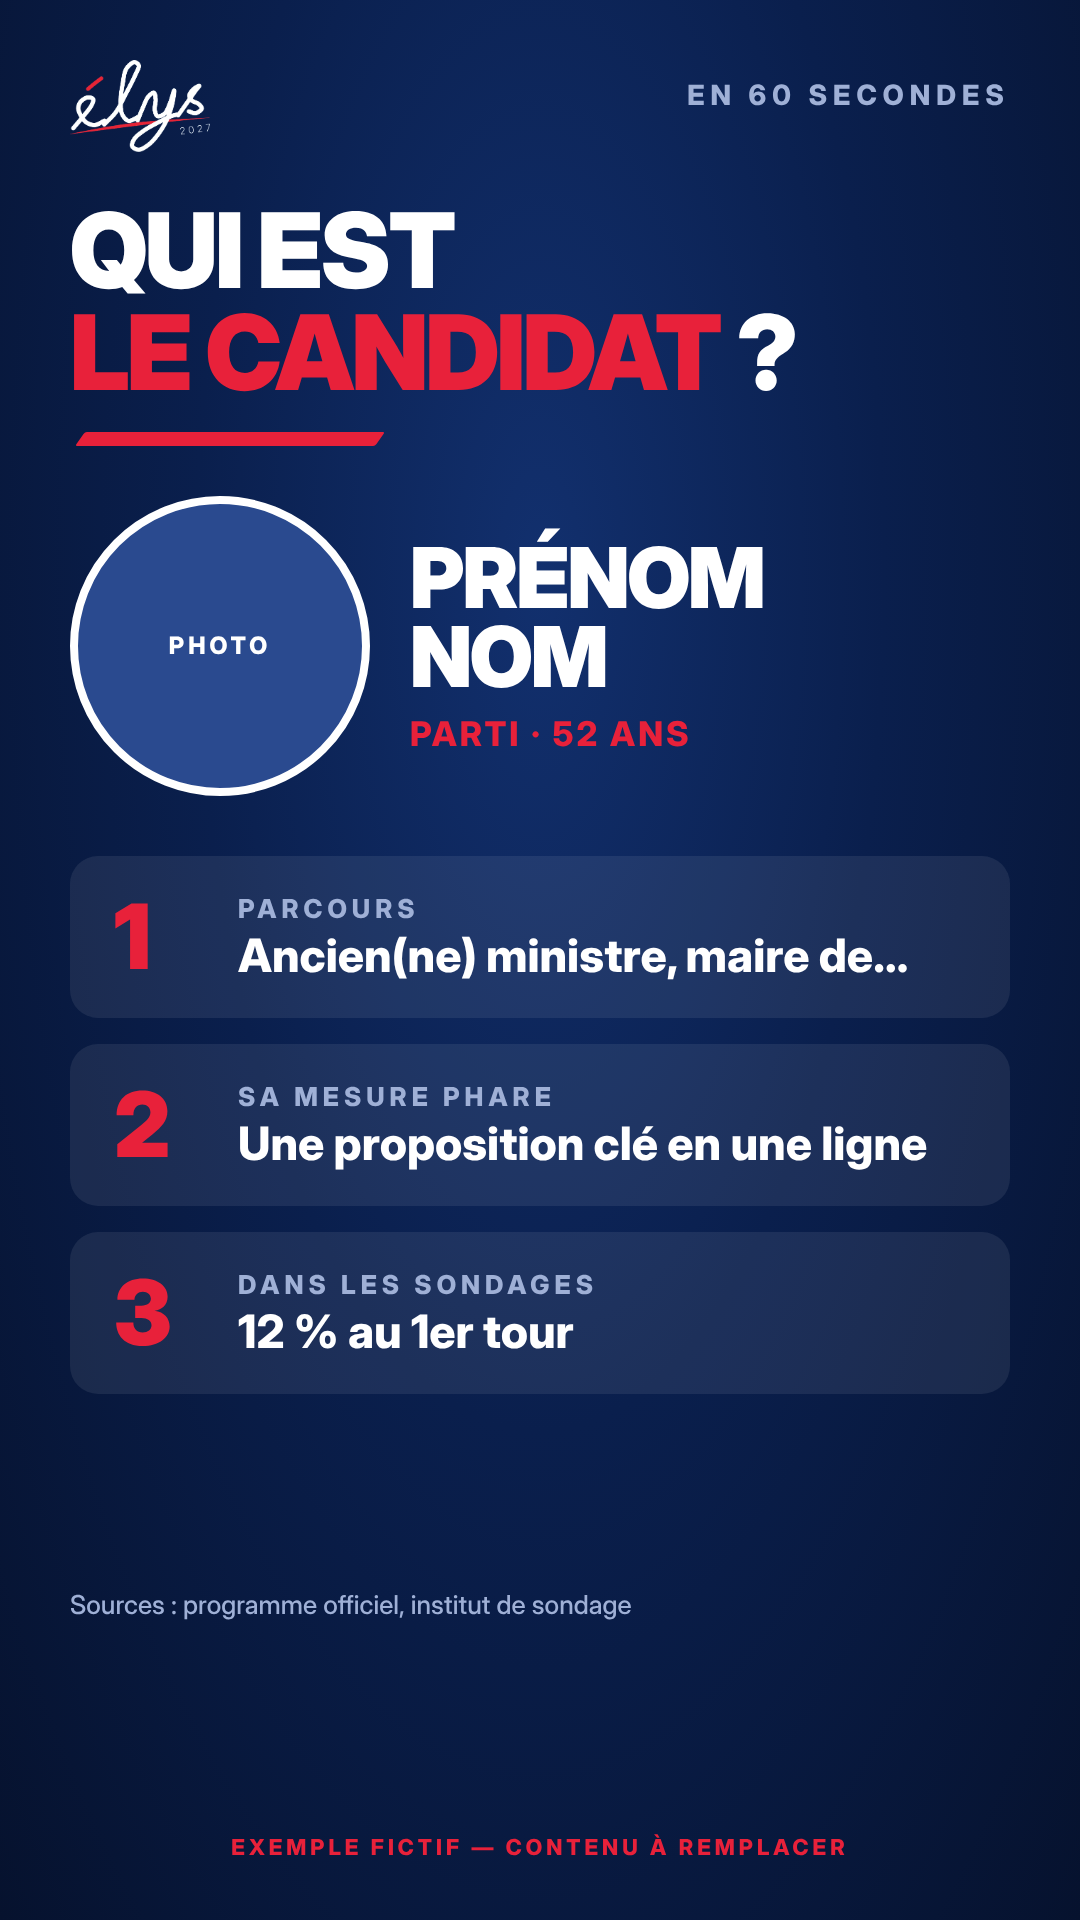
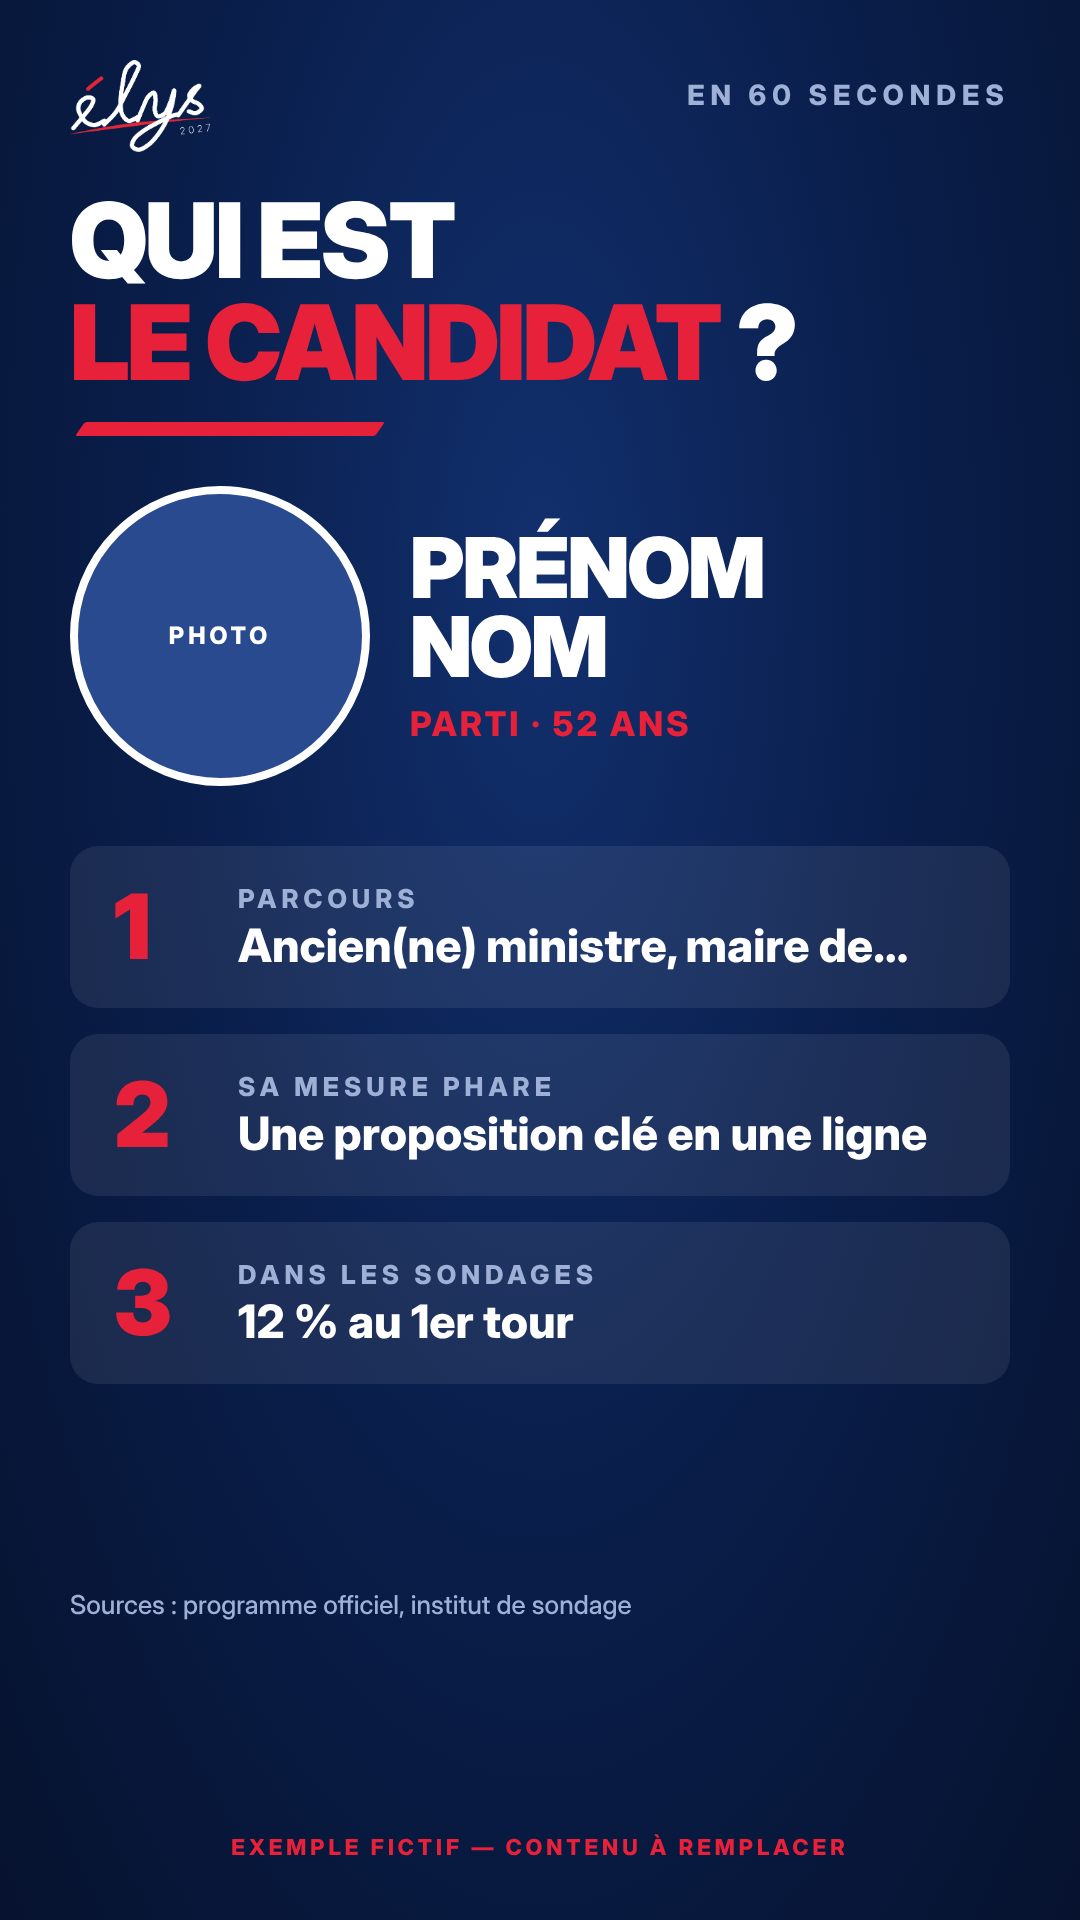
Met à jour la grille, les fiches candidats et les photos disponibles
Claude-Session: https://claude.ai/code/session_012qHyRtMWxFmLdszcpP5WFX

diff --git a/templates/candidat.html b/templates/candidat.html
@@ -1,7 +1,7 @@
 <!doctype html><html lang="fr"><head><meta charset="utf-8"><link rel="stylesheet" href="base.css">
 <style>
 .photo{position:absolute;left:0;right:0;top:0;height:1180px;background-size:cover;background-position:center 18%}
-.photo::after{content:"";position:absolute;inset:0;background:linear-gradient(180deg,rgba(6,18,46,.55) 0%,rgba(6,18,46,0) 22%,rgba(10,31,77,0) 55%,var(--navy) 98%)}
+.photo::after{content:"";position:absolute;inset:0;background:linear-gradient(180deg,rgba(6,18,46,.85) 0%,rgba(6,18,46,0) 26%,rgba(10,31,77,0) 55%,var(--navy) 98%)}
 .info{position:absolute;left:70px;right:70px;top:1030px}
 .badge{display:inline-block;background:var(--red);font-weight:900;font-size:30px;letter-spacing:5px;text-transform:uppercase;padding:12px 26px;transform:skewX(-8deg)}
 .prenom{font-size:70px;font-weight:700;margin-top:34px;letter-spacing:-1px}
@@ -19,11 +19,11 @@
 <div class="credit" id="credit"></div>
 <script>
 const id=new URLSearchParams(location.search).get('id');
-Promise.all([fetch('../candidats.json').then(r=>r.json()),fetch('../assets/candidats/credits.json').then(r=>r.json())]).then(([L,C])=>{
+Promise.all([fetch('../candidats.json').then(r=>r.json()),fetch('../assets/candidats/credits.json').then(r=>r.json()).catch(()=>({}))]).then(([L,C])=>{
  const c=L.find(x=>x.id===id), cr=C[id]||{};
  document.getElementById('photo').style.backgroundImage=`url(../assets/candidats/${id}.jpg)`;
  prenom.textContent=c.nom; nom.textContent=c.nom2; parti.textContent=c.parti; note.textContent=c.note;
- credit.textContent=`Photo : ${cr.auteur||''} · ${cr.licence||''} · Wikimedia Commons`;
+ credit.textContent=cr.auteur?`Photo : ${cr.auteur} · ${cr.licence} · Wikimedia Commons`:'Photo : Wikimedia Commons';
  document.body.dataset.ready=1;
 });
 </script></body></html>

diff --git a/templates/grille.html b/templates/grille.html
@@ -1,10 +1,10 @@
 <!doctype html><html lang="fr"><head><meta charset="utf-8"><link rel="stylesheet" href="base.css">
 <style>
-.grid{margin-top:50px;display:grid;grid-template-columns:repeat(3,1fr);gap:34px 26px}
+.grid{margin-top:36px;display:grid;grid-template-columns:repeat(4,1fr);gap:40px 12px}
 .c{text-align:center}
-.c .ph{width:270px;height:270px;border-radius:50%;margin:0 auto;background-size:cover;background-position:center 20%;border:7px solid #fff}
-.c .n{margin-top:16px;font-size:34px;font-weight:900;text-transform:uppercase;line-height:1}
-.c .p{margin-top:6px;font-size:23px;color:var(--red);font-weight:800;letter-spacing:1px}
+.c .ph{width:210px;height:210px;border-radius:50%;margin:0 auto;background-size:cover;background-position:center 20%;border:7px solid #fff}
+.c .n{margin-top:12px;font-size:28px;font-weight:900;text-transform:uppercase;line-height:1}
+.c .p{margin-top:6px;font-size:20px;color:var(--red);font-weight:800;letter-spacing:1px}
 .sub{margin-top:22px;font-size:34px;color:var(--grey);font-weight:700}
 </style></head><body>
 <img class="logo" src="../assets/logo.png"><div class="tag">Mise à jour</div>

diff --git a/render.js b/render.js
@@ -19,6 +19,6 @@ const server = http.createServer((q, r) => {
   fs.mkdirSync('output/candidats', { recursive: true });
   for (const f of ['citation','sondage','jx','fiche']) await shot(f + '.html', `output/${f}.png`);
   await shot('grille.html', 'output/grille.png');
-  for (const c of JSON.parse(fs.readFileSync('candidats.json'))) await shot(`candidat.html?id=${c.id}`, `output/candidats/${c.id}.png`);
+  for (const c of JSON.parse(fs.readFileSync('candidats.json')).filter(c => fs.existsSync(`assets/candidats/${c.id}.jpg`))) await shot(`candidat.html?id=${c.id}`, `output/candidats/${c.id}.png`);
   await b.close(); server.close();
 })();

diff --git a/templates/base.css b/templates/base.css
@@ -11,7 +11,7 @@ body{
   position:relative;
 }
 /* zones de sécurité TikTok : ~150px haut, ~380px bas (boutons/légende) */
-.safe{position:absolute;left:70px;right:70px;top:200px;bottom:380px;display:flex;flex-direction:column}
+.safe{position:absolute;left:70px;right:70px;top:190px;bottom:330px;display:flex;flex-direction:column}
 .logo{position:absolute;top:60px;left:70px;height:92px}
 .tag{position:absolute;top:78px;right:70px;font-weight:800;font-size:28px;letter-spacing:6px;
   text-transform:uppercase;color:var(--grey)}
